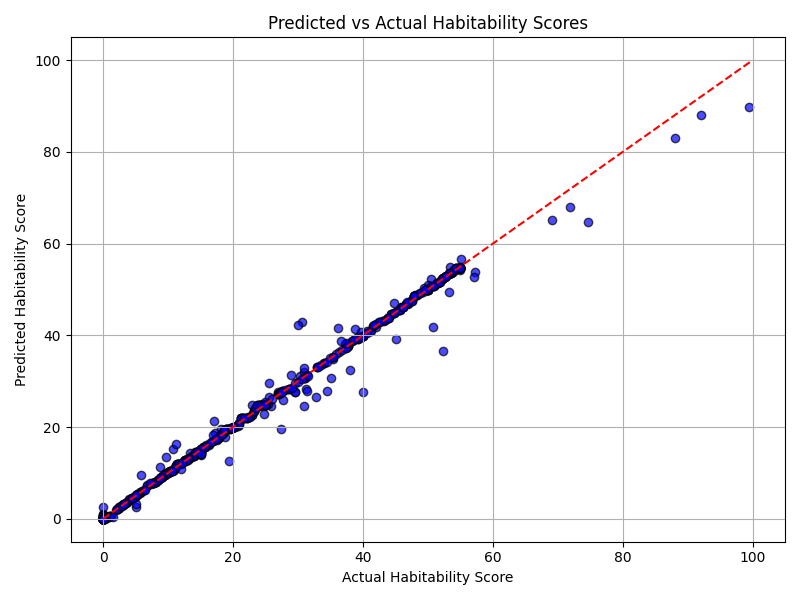
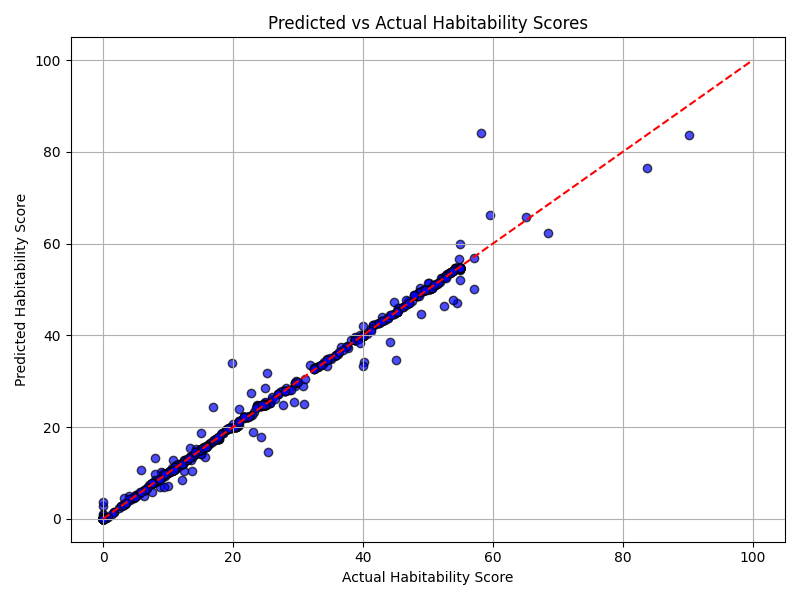
predicting

diff --git a/src/train_predict.py b/src/train_predict.py
@@ -11,7 +11,7 @@ features = ["pl_rade", "pl_bmasse", "pl_dens", "pl_orbeccen", "pl_insol", "pl_eq
 x = exoplanetDF[features]
 y = exoplanetDF["score"]
 
-x_train, x_test, y_train, y_test = train_test_split(x, y, test_size=0.2, random_state=68)
+x_train, x_test, y_train, y_test = train_test_split(x, y, test_size=0.2, random_state=67)
 
 rf = RandomForestRegressor(n_estimators=200, max_depth=8, random_state=42)
 
@@ -27,9 +27,7 @@ print("R^2 Score:", r2)
 
 plt.figure(figsize=(8,6))
 plt.scatter(y_test, y_pred, color='blue', edgecolor='black', alpha=0.7)
-plt.plot([0, 100], [0, 100], color='red', linestyle='--')  # diagonal line y=x
-
-plt.plot()
+plt.plot([0, 100], [0, 100], color='red', linestyle='--')
 plt.xlabel('Actual Habitability Score')
 plt.ylabel('Predicted Habitability Score')
 plt.title('Predicted vs Actual Habitability Scores')
